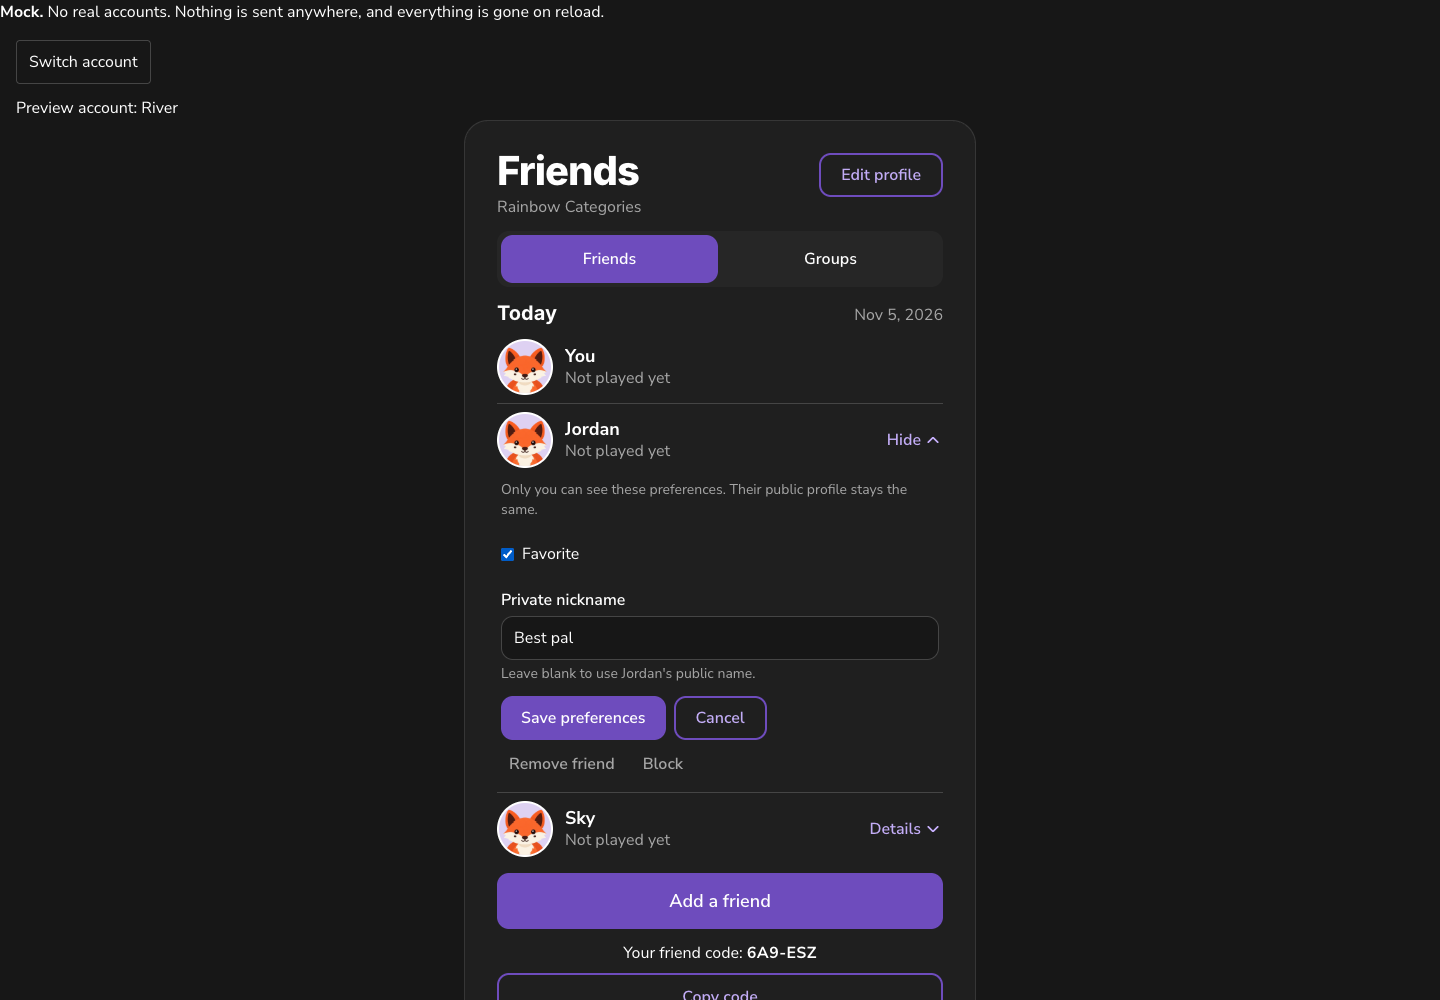
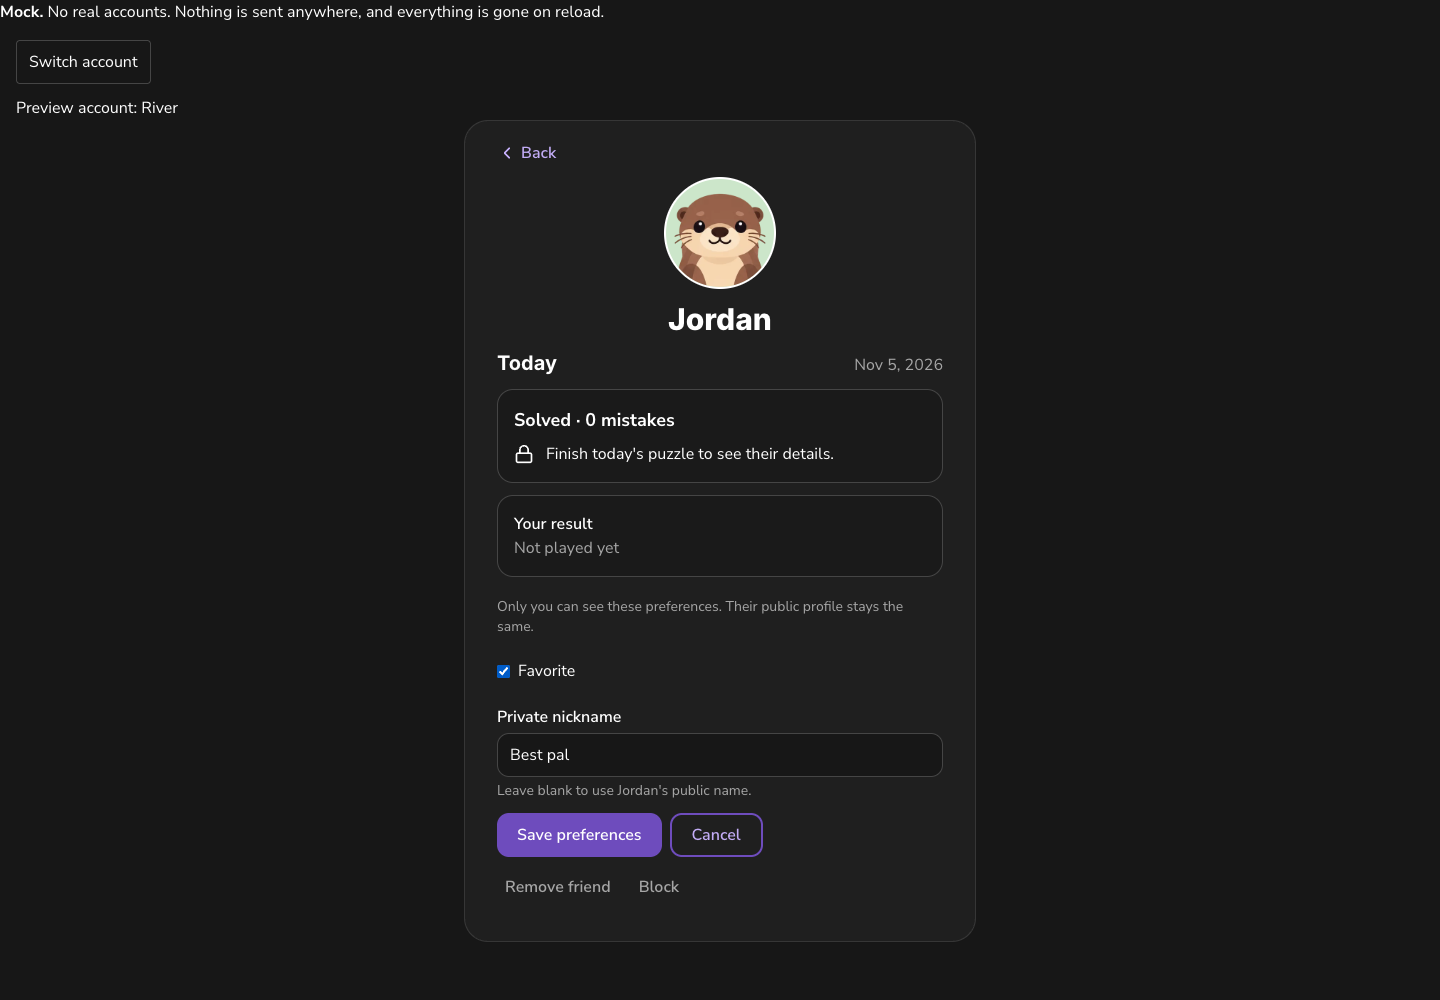
Add friend profiles and favorite friends strip

diff --git a/src/components/account/FriendsHome.tsx b/src/components/account/FriendsHome.tsx
@@ -1,7 +1,8 @@
+import { ProfileAvatar } from "./ProfileAvatar";
 import { useState, type ReactNode } from "react";
 import * as Tabs from "@radix-ui/react-tabs";
 import type { FriendResult } from "@/lib/friendResults";
-import { accountPanel, outlineAction, primaryAction, quietText } from "./accountStyles";
+import { accountCard, accountPanel, outlineAction, primaryAction, quietText } from "./accountStyles";
 import { ResultRow, TodayHeading } from "./ResultRow";
 
 export type FriendsTab = "friends" | "groups";
@@ -19,6 +20,7 @@ interface FriendsHomeProps {
   /** Used by tests. In the app this is simply today on this device. */
   today?: Date;
   /** What an opened row offers. Null for a row with nothing to offer. */
+  onFriendProfile?: (friend: FriendResult) => void;
   rowActions?: (result: FriendResult) => ReactNode;
   /** Opens the profile editor, from the top of both tabs. */
   onEditProfile?: () => void;
@@ -36,7 +38,8 @@ const tabButton =
  * played can be opened, and so can anyone with actions. A friend code is there
  * to read out or copy.
  */
-export function FriendsHome({ gameName, results, friendCode, tab, onTabChange, onAddFriend, groups, today = new Date(), rowActions, onEditProfile, friendsFooter }: FriendsHomeProps) {
+export function FriendsHome({ gameName, results, friendCode, tab, onTabChange, onAddFriend, groups, today = new Date(), rowActions, onEditProfile, friendsFooter, onFriendProfile }: FriendsHomeProps) {
+  const favorites = results.filter(result => !result.isYou && result.favorite);
   const [openId, setOpenId] = useState<string | null>(null);
   const [copied, setCopied] = useState<"yes" | "no" | null>(null);
 
@@ -68,6 +71,17 @@ export function FriendsHome({ gameName, results, friendCode, tab, onTabChange, o
         </Tabs.List>
 
         <Tabs.Content value="friends" className="focus-visible:outline-none">
+          {favorites.length > 0 && <section className={`${accountCard} mt-4`} aria-label="Favorite friends">
+            <h2 className="font-tile text-lg font-bold">Favorite friends</h2>
+            <ul className="mt-3 flex gap-3 overflow-x-auto pb-1">
+              {favorites.map(friend => <li key={friend.id} className="shrink-0">
+                <button type="button" aria-label={`Open ${friend.nickname || friend.name}'s profile`} onClick={() => onFriendProfile ? onFriendProfile(friend) : setOpenId(friend.id)} className="flex w-16 flex-col items-center gap-1 rounded-lg focus-visible:outline-none focus-visible:ring-2 focus-visible:ring-ring">
+                  <ProfileAvatar animalId={friend.animalId} backgroundColor={friend.backgroundColor} size={52}/>
+                  <span className="w-full truncate text-sm font-semibold">{friend.nickname || friend.name}</span>
+                </button>
+              </li>)}
+            </ul>
+          </section>}
           <TodayHeading today={today} />
           <ul className="mt-1">
             {results.map((result) => (
@@ -75,7 +89,8 @@ export function FriendsHome({ gameName, results, friendCode, tab, onTabChange, o
                 key={result.id}
                 result={result}
                 open={openId === result.id}
-                onToggle={() => setOpenId(openId === result.id ? null : result.id)}
+                onToggle={() => onFriendProfile && !result.isYou ? onFriendProfile(result) : setOpenId(openId === result.id ? null : result.id)}
+                navigation={!!onFriendProfile && !result.isYou}
                 actions={rowActions?.(result)}
               />
             ))}

diff --git a/src/components/account/ResultRow.tsx b/src/components/account/ResultRow.tsx
@@ -1,5 +1,5 @@
 import { useId, type ReactNode } from "react";
-import { ChevronDown, ChevronUp } from "lucide-react";
+import { ChevronDown, ChevronRight, ChevronUp } from "lucide-react";
 import { canOpenResult, resultSummary, type FriendResult } from "@/lib/friendResults";
 import { quietText } from "./accountStyles";
 import { ProfileAvatar } from "./ProfileAvatar";
@@ -11,10 +11,11 @@ interface ResultRowProps {
   onToggle: () => void;
   /** Shown when the row is open, and makes a row with no result openable too. */
   actions?: ReactNode;
+  navigation?: boolean;
 }
 
 /** One person's result today, for Friends and for a group alike. */
-export function ResultRow({ result, open, onToggle, actions }: ResultRowProps) {
+export function ResultRow({ result, open, onToggle, actions, navigation = false }: ResultRowProps) {
   const panel = useId();
   const person = (
     <>
@@ -29,25 +30,25 @@ export function ResultRow({ result, open, onToggle, actions }: ResultRowProps) {
   );
   return (
     <li className="border-t border-border first:border-t-0" data-testid="result-row" data-person={result.id}>
-      {canOpenResult(result) || actions ? (
+      {canOpenResult(result) || actions || navigation ? (
         <>
           <button
             type="button"
-            aria-expanded={open}
-            aria-controls={panel}
+            aria-expanded={navigation ? undefined : open}
+            aria-controls={navigation ? undefined : panel}
             onClick={onToggle}
             className="flex min-h-[4.5rem] w-full items-center gap-3 rounded-lg py-2 hover:bg-secondary/60
               focus-visible:outline-none focus-visible:ring-2 focus-visible:ring-[hsl(258_46%_52%)]"
           >
             {person}
             <span className="flex shrink-0 items-center gap-0.5 text-base font-semibold text-[hsl(258_46%_42%)] dark:text-[hsl(258_80%_82%)]">
-              {open ? "Hide" : "Details"}
-              {open
+              {navigation ? "Profile" : open ? "Hide" : "Details"}
+              {navigation ? <ChevronRight aria-hidden="true" className="h-5 w-5" /> : open
                 ? <ChevronUp aria-hidden="true" className="h-5 w-5" />
                 : <ChevronDown aria-hidden="true" className="h-5 w-5" />}
             </span>
           </button>
-          {open && (
+          {open && !navigation && (
             <div id={panel} className="px-1 pb-3 pt-1">
               {canOpenResult(result) && <ResultDetail result={result} />}
               {actions}

diff --git a/src/test/friendProfile.test.tsx b/src/test/friendProfile.test.tsx
@@ -1,0 +1,19 @@
+import {fireEvent,render,screen,within} from '@testing-library/react';import {expect,it,vi} from 'vitest';
+import {FriendProfile} from '@/components/account/FriendProfile';import {FriendsHome} from '@/components/account/FriendsHome';import type {FriendResult} from '@/lib/friendResults';
+const friend:FriendResult={id:'f1',name:'Jordan',nickname:'Pal',favorite:true,isYou:false,animalId:'otter',backgroundColor:'#CCE6CA',gameId:'rainbow',status:'solved',mistakes:0,detail:null};
+it('shows a real avatar, private nickname and locked details without invented levels',()=>{
+ render(<FriendProfile friend={friend} today={new Date(2026,10,5)} resultsAvailable actions={<button>Preferences</button>} onBack={vi.fn()}/>);
+ expect(screen.getByRole('heading',{name:'Pal'})).toBeInTheDocument();expect(screen.getByText('Public name: Jordan')).toBeInTheDocument();expect(screen.getByTestId('result-locked')).toBeInTheDocument();
+ expect(screen.queryByTestId('result-detail')).toBeNull();expect(screen.queryByText(/Level|XP/)).toBeNull();
+});
+it('does not guess results when the puzzle lookup was unavailable',()=>{
+ render(<FriendProfile friend={friend} today={new Date()} resultsAvailable={false} actions={null} onBack={vi.fn()}/>);
+ expect(screen.getByText(/results aren't available/)).toBeInTheDocument();expect(screen.queryByText(/Solved/)).toBeNull();
+});
+it('excludes self from the favorites strip and opens the selected profile',()=>{
+ const open=vi.fn();render(<FriendsHome gameName="Rainbow" results={[{...friend,id:'you',name:'You',nickname:null,isYou:true},friend]} friendCode="ABC" tab="friends" onTabChange={vi.fn()} onAddFriend={vi.fn()} groups={null} onFriendProfile={open}/>);
+ const strip=screen.getByRole('region',{name:'Favorite friends'});expect(within(strip).queryByText('You')).toBeNull();
+ fireEvent.click(within(strip).getByRole('button',{name:"Open Pal's profile"}));expect(open).toHaveBeenCalledWith(friend);
+ const row=screen.getAllByTestId('result-row').find(row=>row.getAttribute('data-person')==='f1')!;
+ const button=within(row).getByRole('button');expect(button).not.toHaveAttribute('aria-expanded');fireEvent.click(button);expect(open).toHaveBeenCalledTimes(2);
+});

diff --git a/src/components/account/FriendProfile.tsx b/src/components/account/FriendProfile.tsx
@@ -1,0 +1,39 @@
+import {useEffect,useRef,type ReactNode} from 'react';
+import {canOpenResult,resultSummary,type FriendResult} from '@/lib/friendResults';
+import {accountCard,accountPanel,quietText} from './accountStyles';
+import {BackLink} from './BackLink';
+import {ProfileAvatar} from './ProfileAvatar';
+import {ResultDetail} from './ResultDetail';
+import {TodayHeading} from './ResultRow';
+
+interface Props {
+ friend:FriendResult;
+ viewer?:FriendResult;
+ today:Date;
+ resultsAvailable:boolean;
+ actions:ReactNode;
+ onBack:()=>void;
+}
+/** A friend's public face and the viewer's private preferences. No level/XP is implied. */
+export function FriendProfile({friend,viewer,today,resultsAvailable,actions,onBack}:Props){
+ const heading=useRef<HTMLHeadingElement>(null);
+ useEffect(()=>{heading.current?.focus();},[]);
+ return <main className={`${accountPanel} mx-auto w-full max-w-[32rem] px-5 pb-5 pt-2 sm:px-8 sm:pb-8`} data-testid="friend-profile">
+  <BackLink onClick={onBack}/>
+  <div className="text-center">
+   <ProfileAvatar animalId={friend.animalId} backgroundColor={friend.backgroundColor} size={112}/>
+   <h1 ref={heading} tabIndex={-1} className="mt-3 break-words font-tile text-3xl font-extrabold outline-none">{friend.nickname||friend.name}</h1>
+   {friend.nickname&&<p className={`${quietText} mt-1 break-words`}>Public name: {friend.name}</p>}
+   {friend.favorite&&<p className="mx-auto mt-3 w-fit rounded-full bg-yellow-200 px-4 py-1 font-semibold text-yellow-950">★ Favorite</p>}
+  </div>
+  <TodayHeading today={today}/>
+  {resultsAvailable?<>
+   <section className={`${accountCard} mt-3`} aria-label="Friend's result today">
+    <p className="text-lg font-bold">{resultSummary(friend)}</p>
+    {canOpenResult(friend)&&<div className="mt-2"><ResultDetail result={friend}/></div>}
+   </section>
+   {viewer&&<section className={`${accountCard} mt-3`} aria-label="Your result today"><p className="font-semibold">Your result</p><p className={quietText}>{resultSummary(viewer)}</p></section>}
+  </>:<p className={`${quietText} mt-3`}>Today's puzzle results aren't available right now.</p>}
+  <div className="mt-5 [&_button]:min-h-11">{actions}</div>
+ </main>;
+}

diff --git a/src/components/social/SocialScreens.tsx b/src/components/social/SocialScreens.tsx
@@ -1,3 +1,4 @@
+import { FriendProfile } from "@/components/account/FriendProfile";
 import { FriendPreferences } from "@/components/account/FriendPreferences";
 import { socialPreferencesEnabled } from "@/lib/socialPreferences";
 import { useCallback, useEffect, useRef, useState, type ReactNode } from "react";
@@ -85,6 +86,7 @@ export function SocialScreens({
   const [editingProfile, setEditingProfile] = useState(startEditingProfile);
   useEffect(() => { if (startEditingProfile) setEditingProfile(true); }, [startEditingProfile]);
   const [blockVersion, setBlockVersion] = useState(0);
+  const [profileFriendId, setProfileFriendId] = useState<string | null>(null);
   const [openGroupId, setOpenGroupId] = useState<string | null>(null);
 
   /** Only the newest read paints, and only while this person is still here. */
@@ -212,6 +214,7 @@ export function SocialScreens({
       </div>
     );
 
+  const profileFriend = loaded.results?.find(result => !result.isYou && result.id === profileFriendId);
   const openGroup = loaded.groups?.find((group) => group.groupId === openGroupId);
 
   return (
@@ -229,6 +232,8 @@ export function SocialScreens({
             void load();
           }}
         />
+      ) : profileFriend ? (
+        <FriendProfile friend={profileFriend} viewer={loaded.results?.find(result => result.isYou)} today={api.today()} resultsAvailable={!loaded.noResults} actions={friendActions(profileFriend)} onBack={() => setProfileFriendId(null)} />
       ) : openGroup ? (
         <GroupFlow
           key={openGroup.groupId}
@@ -252,6 +257,7 @@ export function SocialScreens({
           onAddFriend={() => setAddingFriend(true)}
           groups={<MyGroups api={api} groups={loaded.groups ?? []} displayName={displayName} onNote={onNote} onLink={onLink} onReload={load} onOpen={setOpenGroupId} />}
           today={api.today()}
+          onFriendProfile={friend => setProfileFriendId(friend.id)}
           rowActions={friendActions}
           onEditProfile={() => setEditingProfile(true)}
           friendsFooter={<BlockedPeople api={api} version={blockVersion} />}

diff --git a/demo/profile-menu/preferences-main.tsx b/demo/profile-menu/preferences-main.tsx
@@ -18,7 +18,13 @@ for (const name of ['Coffee Club','Puzzle Pals','Book Club']) {
   const made=await alice.call('createGroup',{name,myName:'River',noticeVersion:1});
   if(made.ok)await bob.call('joinGroup',{code:made.data.inviteCode,myName:'Jordan',noticeVersion:1});
 }
-const api: SocialApi = { client:alice, puzzleId:()=>null, today:()=>new Date(2026,10,5), linkUrl:()=>'', share:async()=>'done' };
+await bob.call('setProfile',{displayName:'Jordan',animalId:'otter',backgroundColor:'#CCE6CA'});
+await carol.call('setProfile',{displayName:'Sky',animalId:'owl',backgroundColor:'#CCE1F1'});
+world.advance(1000);
+for (const person of new URLSearchParams(location.search).has('completed') ? ['Jordan','River'] : ['Jordan']) {
+  await world.hub.serverFor('rainbow').recordCompletion({gameId:'rainbow',puzzleId:'fixture-day',globalUserId:world.globalIdOf(person),completedAt:new Date(world.now()).toISOString(),summary:{solved:true,mistakes:0},detail:'🟨🟨🟨🟨\n🟩🟩🟩🟩'});
+}
+const api: SocialApi = { client:alice, puzzleId:()=>'fixture-day', today:()=>new Date(2026,10,5), linkUrl:()=>'', share:async()=>'done' };
 function Preview() {
   const [tab,setTab]=useState<FriendsTab>('friends');
   const [account,setAccount]=useState('River');

diff --git a/FRIENDS-GROUPS-CHECKPOINT.md b/FRIENDS-GROUPS-CHECKPOINT.md
@@ -1,6 +1,8 @@
 # Current continuation status — 2026-11-05
 
-Branch: `codex/rainbow-profile-menu`. The historical sections below describe earlier stages; the integrated menu and crop editor are already saved through `3b5cc7f`. The PNG slice is saved at `a17a96c`, with the production feature flag off and its shared-service patch unapplied. Clubhouse member management is now implemented and verified locally; see the final section for exact files and next steps. No push, merge or deployment.
+Branch: `codex/rainbow-profile-menu`. Latest saved service/UI slice: `b5ccadb` (delegated invitations), following `a17a96c` transparency, `68dcf07` member roster, `4f2104f` private friend preferences, `d1bd15d` group ordering, `877a20b` descriptions, and `2e7267b` owner actions. The friend-profile/favorites-strip slice is saved in the commit containing this checkpoint; use `git log -1` for its exact hash. All changes are LOCAL; shared patches unapplied, production flags off, no push/merge/deployment/live account writes.
+
+Latest verification: **69 app files / 1,882 assertions passed cleanly**, 99 shared-service tests passed in the preceding service slice. App typecheck, changed-file lint and production build pass. Profile and preferences browser flows pass at 320/1440px in light/dark. See the final section for deliverables and remaining decisions. Historical sections below are chronological and superseded by later sections.
 
 # Rainbow Friends & Groups checkpoint — 2026-11-05
 
@@ -139,3 +141,16 @@ This section supersedes the initial component-only status above. Integration cha
 - Verification: focused UI/gateway/conformance tests and all **23 extension SQL + 76 combined-hub tests pass**. App/social typechecks, changed-file lint and build pass. Aggregate: **1878 passed / 1 failed**; the failure was the unchanged solveAnimation reduced-motion test missing Yellow Things. Its test/hook/board have no diff from the preceding clean owner slice; isolated rerun passes all 12 assertions (`/tmp/rainbow-invite-animation-recheck.log`). Do not describe this particular aggregate as clean. Prior 1875-assertion aggregate was clean; next aggregate follows profile styling.
 - Browser `check-invite-permission.mjs` passes owner grant/revoke, member access only while allowed, no owner powers granted, 320/1440 light/dark with no overflow/errors. Initial test looked for the current person's name where the UI correctly shows You; fixed that selector and passed. Captures `evidence/invite-permission-*`, 320 dark inspected and then refreshed with purple grant styling.
 - Asked the user via async input whether the calendar week starts Monday or Sunday; unanswered as of this checkpoint. Do not assume an answer. Independent next work: dedicated friend-profile view and the approved favorites strip (excluding self), using existing safe today data. Weekly range remains pending that product choice; current gateway supports Full Daily only, so Mini/results work remains separate.
+
+## Dedicated friend profile and favorites strip — 2026-11-05
+- Added `src/components/account/FriendProfile.tsx`: actual profile avatar, public name/private nickname, favorite badge, today's gated result and viewer summary; no mockup XP/level. Heading receives focus on entry. Existing completion/detail gates are reused unchanged.
+- Updated `FriendsHome.tsx`, `ResultRow.tsx`, and `SocialScreens.tsx`: favorite friends appear in a horizontal strip above the list, never self; tapping a friend opens their profile, while the viewer's own result retains its existing behavior. Existing preference/remove/block actions are reused. Removed/blocked friends disappear after reload; account-keyed mounting preserves isolation.
+- Added `src/test/friendProfile.test.tsx` (three cases) and `demo/profile-menu/check-friend-profile.mjs`. Updated synthetic preferences fixture and browser check for profile navigation, real memory-hub result gating and account isolation. Evidence: `evidence/friend-profile-{320,1440}-{light,dark}.png`, `evidence/favorites-{320,1440}-dark.png`, refreshed `evidence/preferences-*`. Visually inspected 320px dark profile.
+- Verification: 147 focused assertions pass; full aggregate **69 files / 1882 assertions, exit 0** (`/tmp/rainbow-profile-final-full.log`). App typecheck, changed-file lint, diff check and production build pass (`/tmp/rainbow-profile-final-build.log`, existing bundle-size notice). Prior gameplay-animation failures did not recur; unrelated gameplay code remains unchanged.
+- Browser profile checks passed in light/dark at 320/1440: favorite strip excludes self, private nickname/profile navigation, locked details before same-puzzle completion and revealed details afterward. Preferences browser regression rerun also passed: save, favorite-first display, account isolation, no overflow/page errors. Synthetic accounts only; not hosted/Safari/physical-device verification.
+
+## Remaining decisions and release boundary
+- Weekly activity: the pending user question is whether the calendar week begins Monday or Sunday. Do not treat elapsed time as an answer. Once answered, implement dated Full Daily puzzle discovery and per-puzzle server gating, including rollover/account-switch tests. Current verified gateway completion source covers Full Daily only. Mini backend/results-screen work remains separate in PR #107.
+- Other-game standings: scoring rules, cross-game puzzle discovery and pre-join history are not established. Do not invent these or display fabricated rankings. Existing personal history remains intact; no new historical group standings were introduced.
+- Invitation-link expiry/rotation/recipient policy remains undecided; current reusable-link semantics are preserved and explained in the UI.
+- Release requires separate authorization and coordinated shared SQL/gateway review before enabling any new production feature flags. No push, PR, merge, deployment, production flag or live-data changes have occurred. Original source worktrees were not changed.
